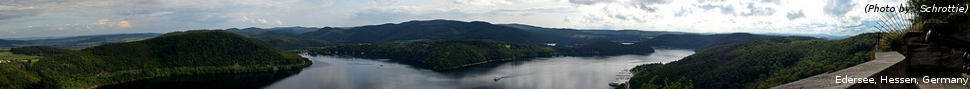
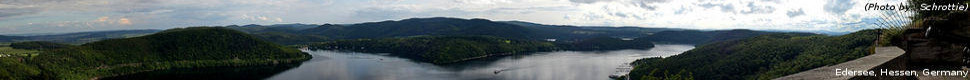
cropped header images to 970x80 instead of scaling, is sharper

diff --git a/htdocs/resource2/ocstyle/css/style_screen.css b/htdocs/resource2/ocstyle/css/style_screen.css
@@ -102,8 +102,28 @@ div#bg2 {display: none;}
 /* 2.1 - Sitename, slogan and banner */
 /*-----------------------------------*/
 .header {
-	height:81px;
+	height: 81px;
 }
+
+.headerimage {
+	height: 80px;
+	width: 970px;
+	overflow: hidden;
+	position: absolute;
+	top: 1px;
+	z-index: 1;
+}
+
+.headerlogo {
+	position: absolute;
+	top: 0px;
+	z-index: 2;
+}
+
+.headerimagecontent {
+	border: 0px none;
+}
+
 
 .site-name {
 	width: 300px;
@@ -830,7 +850,7 @@ a.info:hover span{ /*the span will display just on :hover state*/
 #breadcrumb
 {
 	position: absolute; 
-	top:111px;
+	top:110px;
 	right: 250px;
 	left: 180px;
 	color:#505050;
@@ -846,7 +866,7 @@ a.info:hover span{ /*the span will display just on :hover state*/
 #breadcrumb_fullsize
 {
 	position: absolute; 
-	top:111px;
+	top:110px;
 	right: 20px;
 	left: 180px;
 
@@ -875,7 +895,7 @@ ul.nodot li {
 
 #suchbox {
 	position: absolute; 
-	top:113px; 
+	top:112px;
 	right: 5px;
 }
 
@@ -1174,7 +1194,7 @@ div.isarchived {
 div#havefound {
 	position: absolute;
 	z-index: 25;
-	top: 181px;
+	top: 180px;
 	right: 20px;
 	width: 35px;
 	padding: 5px 5px 5px 0px;

diff --git a/htdocs/lang/de/ocstyle/main.tpl.php b/htdocs/lang/de/ocstyle/main.tpl.php
@@ -161,12 +161,12 @@
 				<?php echo isset($develwarning) ? $develwarning : '' ?>
 
 				<!-- Header banner -->
-				<div style="height:81px;">
-					<div class="header" style="height:80px; position:absolute; z-order:1;">
-						<div style="width: 970px; "><img src="resource2/{style}/images/head/rotator.php?path=<?php echo $opt['page']['headimagepath']; ?>" style="border: 0px none ;" /></div>
+				<div class="header">
+					<div class="headerimage">
+						<img src="resource2/{style}/images/head/rotator.php?path=<?php echo $opt['page']['headimagepath']; ?>" class="headerimagecontent" />
 					</div>
-					<div style="position:absolute; z-order:2;">
-						<img src="resource2/{style}/images/head/overlay/oc_head_alpha3.png" style="border: 0px none ;" />
+					<div class="headerlogo">
+						<img src="resource2/{style}/images/head/overlay/oc_head_alpha3.png" class="headerimagecontent" />
 					</div>
 				</div>
 
